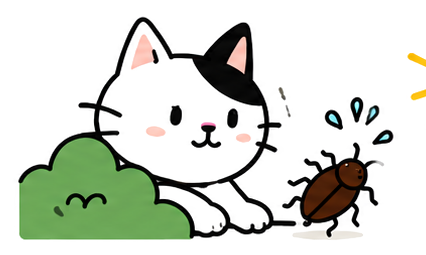
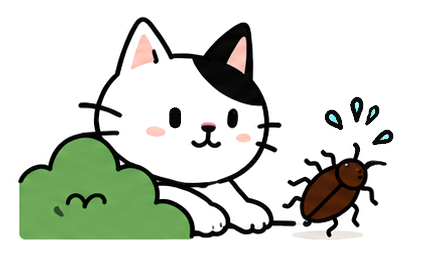
Add splash screen and first-run onboarding flow
Install expo-splash-screen and keep the native splash up until fonts
and the onboarding flag finish loading. Add a 3-slide onboarding
screen (AsyncStorage-backed hasOnboarded flag via useOnboardingStore)
and gate first-time, logged-out users into it before sign-in, with a
dev-only "Replay Onboarding" button on Profile to re-trigger it.

diff --git a/src/features/onboarding/OnboardingScreen.tsx b/src/features/onboarding/OnboardingScreen.tsx
@@ -1,0 +1,128 @@
+import { router } from 'expo-router';
+import { useState } from 'react';
+import {
+  Image,
+  ImageSourcePropType,
+  LayoutChangeEvent,
+  NativeScrollEvent,
+  NativeSyntheticEvent,
+  Pressable,
+  ScrollView,
+  Text,
+  View,
+} from 'react-native';
+import { SafeAreaView } from 'react-native-safe-area-context';
+import { Button } from '../../components/ui';
+import { useOnboardingStore } from '../../stores/useOnboardingStore';
+
+// Fixed box so wide illustrations can't overflow their slide (className sizing
+// isn't reliably applied to Image on web).
+const IMAGE_SIZE = 240;
+
+interface Slide {
+  image: ImageSourcePropType;
+  title: string;
+  subtitle: string;
+}
+
+const SLIDES: Slide[] = [
+  {
+    image: require('../../../assets/characters/bush-cockroach-cat.png'),
+    title: 'Got a roach? Ask for help.',
+    subtitle: '이상한 문제, 도움을 요청하세요',
+  },
+  {
+    image: require('../../../assets/characters/hero-cat.png'),
+    title: 'A nearby hero shows up.',
+    subtitle: '근처 히어로가 도우러 와요',
+  },
+  {
+    image: require('../../../assets/characters/proud-cat.png'),
+    title: 'Reviews keep it trustworthy.',
+    subtitle: '리뷰와 신뢰로 안전하게',
+  },
+];
+
+export function OnboardingScreen() {
+  // Measure the actual scroll area so slide width matches the viewport exactly
+  // (window width can differ on web) and slides fill the height for vertical centering.
+  const [size, setSize] = useState({ width: 0, height: 0 });
+  const [page, setPage] = useState(0);
+  const complete = useOnboardingStore((state) => state.complete);
+  const isLastPage = page === SLIDES.length - 1;
+
+  const finish = async () => {
+    await complete();
+    router.replace('/sign-in');
+  };
+
+  const onLayout = (event: LayoutChangeEvent) => {
+    const { width, height } = event.nativeEvent.layout;
+    setSize({ width, height });
+  };
+
+  // onScroll (not onMomentumScrollEnd) so the page index tracks on web too,
+  // where momentum events don't fire.
+  const onScroll = (event: NativeSyntheticEvent<NativeScrollEvent>) => {
+    if (size.width === 0) return;
+    const nextPage = Math.round(event.nativeEvent.contentOffset.x / size.width);
+    if (nextPage !== page) {
+      setPage(nextPage);
+    }
+  };
+
+  return (
+    <SafeAreaView className="flex-1 bg-background" edges={['top', 'bottom']}>
+      <View className="h-12 flex-row items-center justify-end px-6">
+        <Pressable accessibilityRole="button" accessibilityLabel="Skip" onPress={finish} hitSlop={12}>
+          <Text className="text-base font-sans-medium text-text-secondary">Skip</Text>
+        </Pressable>
+      </View>
+
+      <View className="flex-1" onLayout={onLayout}>
+        {size.width > 0 && (
+          <ScrollView
+            horizontal
+            pagingEnabled
+            showsHorizontalScrollIndicator={false}
+            onScroll={onScroll}
+            scrollEventThrottle={16}
+          >
+            {SLIDES.map((slide) => (
+              <View
+                key={slide.subtitle}
+                style={{ width: size.width, height: size.height }}
+                className="items-center justify-center gap-8 px-6"
+              >
+                <Image
+                  source={slide.image}
+                  style={{ width: IMAGE_SIZE, height: IMAGE_SIZE }}
+                  resizeMode="contain"
+                />
+                <View className="items-center gap-2">
+                  <Text className="text-center text-2xl font-sans-bold text-text-primary">{slide.title}</Text>
+                  <Text className="text-center text-base text-text-secondary">{slide.subtitle}</Text>
+                </View>
+              </View>
+            ))}
+          </ScrollView>
+        )}
+      </View>
+
+      <View className="gap-8 px-6 pb-4">
+        <View className="flex-row items-center justify-center gap-2">
+          {SLIDES.map((slide, index) => (
+            <View
+              key={slide.subtitle}
+              className={`h-2 rounded-full ${index === page ? 'w-6 bg-primary' : 'w-2 bg-text-disabled'}`}
+            />
+          ))}
+        </View>
+
+        <View className="h-14 justify-center">
+          {isLastPage && <Button label="Get Started" variant="primary" onPress={finish} />}
+        </View>
+      </View>
+    </SafeAreaView>
+  );
+}

diff --git a/src/stores/useOnboardingStore.ts b/src/stores/useOnboardingStore.ts
@@ -1,0 +1,32 @@
+import { create } from 'zustand';
+import {
+  clearHasOnboarded,
+  getHasOnboarded,
+  setHasOnboarded,
+} from '../features/onboarding/onboardingStorage';
+
+interface OnboardingState {
+  hasOnboarded: boolean;
+  loading: boolean;
+  // Persist the flag and flip it in memory so the gate stops redirecting to onboarding.
+  complete: () => Promise<void>;
+  // Dev-only: clear the flag so the onboarding flow can be seen again.
+  reset: () => Promise<void>;
+}
+
+export const useOnboardingStore = create<OnboardingState>((set) => ({
+  hasOnboarded: false,
+  loading: true,
+  complete: async () => {
+    await setHasOnboarded();
+    set({ hasOnboarded: true });
+  },
+  reset: async () => {
+    await clearHasOnboarded();
+    set({ hasOnboarded: false });
+  },
+}));
+
+getHasOnboarded().then((value) => {
+  useOnboardingStore.setState({ hasOnboarded: value, loading: false });
+});

diff --git a/app/_layout.tsx b/app/_layout.tsx
@@ -9,22 +9,39 @@ import {
 } from '@expo-google-fonts/poppins';
 import { QueryClient, QueryClientProvider } from '@tanstack/react-query';
 import { Redirect, Stack, useSegments } from 'expo-router';
+import * as SplashScreen from 'expo-splash-screen';
 import { StatusBar } from 'expo-status-bar';
-import { ReactNode } from 'react';
+import { ReactNode, useEffect } from 'react';
 import { SafeAreaProvider } from 'react-native-safe-area-context';
 import { useAuthStore } from '../src/stores/useAuthStore';
+import { useOnboardingStore } from '../src/stores/useOnboardingStore';
+
+// Keep the native splash up until fonts and the onboarding flag have loaded.
+SplashScreen.preventAutoHideAsync().catch(() => {});
 
 const queryClient = new QueryClient();
 
 function AuthGate({ children }: { children: ReactNode }) {
   const { session, initializing } = useAuthStore();
+  const hasOnboarded = useOnboardingStore((state) => state.hasOnboarded);
   const segments = useSegments();
 
   if (initializing) {
     return null;
   }
 
+  const inOnboarding = segments[0] === 'onboarding';
   const inAuthScreen = segments[0] === 'sign-in';
+
+  // First-time, logged-out users see onboarding before anything else — even on deep links.
+  if (!hasOnboarded && !session) {
+    return inOnboarding ? children : <Redirect href="/onboarding" />;
+  }
+
+  // Onboarded or logged-in users should never land on the onboarding route.
+  if (inOnboarding) {
+    return <Redirect href={session ? '/' : '/sign-in'} />;
+  }
 
   if (!session && !inAuthScreen) {
     return <Redirect href="/sign-in" />;
@@ -44,8 +61,16 @@ export default function RootLayout() {
     Poppins_600SemiBold,
     Poppins_700Bold,
   });
+  const onboardingLoading = useOnboardingStore((state) => state.loading);
+  const ready = fontsLoaded && !onboardingLoading;
 
-  if (!fontsLoaded) {
+  useEffect(() => {
+    if (ready) {
+      SplashScreen.hideAsync().catch(() => {});
+    }
+  }, [ready]);
+
+  if (!ready) {
     return null;
   }
 

diff --git a/src/features/onboarding/onboardingStorage.ts b/src/features/onboarding/onboardingStorage.ts
@@ -1,0 +1,17 @@
+import AsyncStorage from '@react-native-async-storage/async-storage';
+
+// Same AsyncStorage the Supabase session uses — one flag, one key.
+const ONBOARDING_KEY = 'hasOnboarded';
+
+export async function getHasOnboarded(): Promise<boolean> {
+  const value = await AsyncStorage.getItem(ONBOARDING_KEY);
+  return value === 'true';
+}
+
+export async function setHasOnboarded(): Promise<void> {
+  await AsyncStorage.setItem(ONBOARDING_KEY, 'true');
+}
+
+export async function clearHasOnboarded(): Promise<void> {
+  await AsyncStorage.removeItem(ONBOARDING_KEY);
+}

diff --git a/src/features/profile/ProfileScreen.tsx b/src/features/profile/ProfileScreen.tsx
@@ -6,6 +6,14 @@ import { COLORS } from '../../constants/colors';
 import { useMissionHistory } from '../../hooks/useMissionHistory';
 import { useProfile } from '../../hooks/useProfile';
 import { supabase } from '../../services/supabase';
+import { useOnboardingStore } from '../../stores/useOnboardingStore';
+
+// Dev-only: clear the onboarding flag and sign out so the gate routes back to
+// the onboarding flow. Stripped from production builds via __DEV__.
+async function replayOnboarding() {
+  await useOnboardingStore.getState().reset();
+  await supabase.auth.signOut();
+}
 
 const SETTINGS_ITEMS: { icon: keyof typeof Feather.glyphMap; label: string; koLabel: string }[] = [
   { icon: 'user', label: 'Account', koLabel: '계정' },
@@ -101,6 +109,14 @@ export function ProfileScreen() {
         </View>
 
         <Button label="Sign Out" variant="ghost" onPress={() => supabase.auth.signOut()} />
+
+        {__DEV__ && (
+          <Button
+            label="Replay Onboarding · 온보딩 다시 보기 (dev)"
+            variant="ghost"
+            onPress={replayOnboarding}
+          />
+        )}
       </ScrollView>
     </SafeAreaView>
   );

diff --git a/app/onboarding.tsx b/app/onboarding.tsx
@@ -1,0 +1,5 @@
+import { OnboardingScreen } from '../src/features/onboarding/OnboardingScreen';
+
+export default function Onboarding() {
+  return <OnboardingScreen />;
+}

diff --git a/TODO.md b/TODO.md
@@ -136,9 +136,12 @@
 
 ## 🟡 P2 · 온보딩 & 앱 진입
 DESIGN.md 화면 순서엔 Splash → Onboarding → Home 이 있으나 현재 없음(과거 커밋에서 reset됨).
-- [ ] Splash 화면
-- [ ] Onboarding 화면
-- [ ] app.json 앱 아이콘 / 스플래시 설정 (`assets/logo/app-icon.png` 있으나 미연결)
+- [x] Splash 화면 — `expo-splash-screen` 설치 후 `_layout.tsx` 모듈 최상단에서 `SplashScreen.preventAutoHideAsync()` 호출, 폰트 로딩 + 온보딩 플래그 조회(`useOnboardingStore`)가 **둘 다** 끝나면 `hideAsync()`. 기존 `return null` 자리를 `ready` 게이트로 교체. app.json `expo-splash-screen` 플러그인에 `app-icon.png`(정사각에 가까운 586x619) + `resizeMode: contain` + 배경 `#FFFFFF`(DESIGN background 토큰). ⚠️ **네이티브 전용 동작**이라 Expo Web에선 스플래시 이미지 자체가 렌더되지 않음(웹에선 `hideAsync`가 사실상 no-op, 로직 흐름만 검증됨) — 실제 스플래시 표시는 EAS/네이티브 빌드에서 재확인 필요
+- [x] Onboarding 화면 — `app/onboarding.tsx` + `src/features/onboarding/OnboardingScreen.tsx`(3장 슬라이드: bush-cockroach-cat / hero-cat / proud-cat + 영/한 두 줄 카피). 가로 `ScrollView pagingEnabled` + 하단 점 인디케이터(활성 primary, 새 캐러셀 라이브러리 없음). 우상단 Skip + 마지막 장 Get Started. 둘 다 AsyncStorage `hasOnboarded='true'` 저장 후 `/sign-in`으로 이동. **주의: `onMomentumScrollEnd`는 react-native-web에서 안 켜져 Get Started/점이 안 바뀌는 버그가 있어 `onScroll`로 교체함(웹/네이티브 공통 동작).** 온보딩 플래그는 `useOnboardingStore`(Zustand)로 메모리 반영 — 안 그러면 완료 직후 stale 플래그 때문에 `/onboarding`으로 되돌아가는 바운스 버그 발생하므로 store로 해결
+  - AuthGate 게이트 로직: `!hasOnboarded && !session`이면 (온보딩 라우트가 아닌 한) `/onboarding`으로 리다이렉트(딥링크 우회 커버). 온보딩 완료했거나 세션 있는 유저가 `/onboarding`에 오면 세션 여부에 따라 `/` 또는 `/sign-in`으로 되돌림. 그 외는 기존 로직 그대로
+  - 검증(Expo Web + Playwright, 실제 동작): ①localStorage 비운 첫 접속 → `/onboarding` 3장 표시 ②마지막 장 스크롤 시 Get Started 노출 → 탭 시 `/sign-in`, `hasOnboarded=true` 저장 ③온보딩 후 새로고침 → 온보딩 안 뜨고 바로 sign-in ④Skip → 즉시 sign-in + 플래그 저장 ⑤**회귀**: 실제 회원가입으로 세션 생성 후 `hasOnboarded` 플래그를 지우고 새로고침해도 온보딩 안 뜨고 `/`(홈) 유지, 로그인 상태로 `/onboarding` 딥링크해도 `/`로 리다이렉트 — 온보딩 로직이 로그인 유저 플로우를 안 건드림 확인. `npx tsc --noEmit` 통과
+  - (테스트용 더미 계정 `onboard-test-*@example.com` 1개가 원격 auth에 남음 — service key 없어 삭제 불가, 무해한 더미)
+- [x] app.json 앱 아이콘 / 스플래시 설정 — `expo.icon`에 `./assets/logo/app-icon.png` 연결(ios/android 공용 하나, 과설계 안 함) + 위 스플래시 플러그인. `npx expo config`로 icon/splash 경로 정상 resolve 확인. ⚠️ **아이콘 실제 렌더링은 Web에서 검증 불가(네이티브 전용)**, 게다가 `app-icon.png`가 정사각형이 아님(586x619) — Expo는 1024x1024 정사각 아이콘 권장이라 네이티브 빌드 시 왜곡/패딩 경고 가능성 있음. 정식 아이콘 규격(1024x1024 square) 준비 후 EAS 빌드에서 재확인 필요
 
 ## 🟢 P3 · 마감 완성도 (Definition of Done)
 - [ ] 로딩 상태: 리스트 스켈레톤 (Nearby / History)